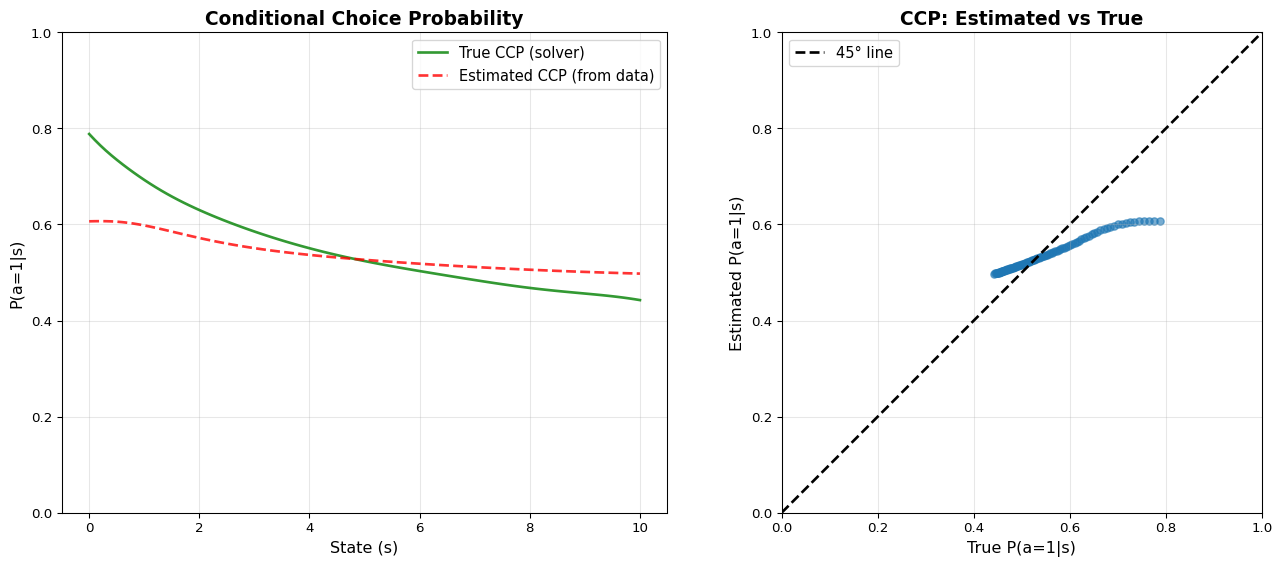
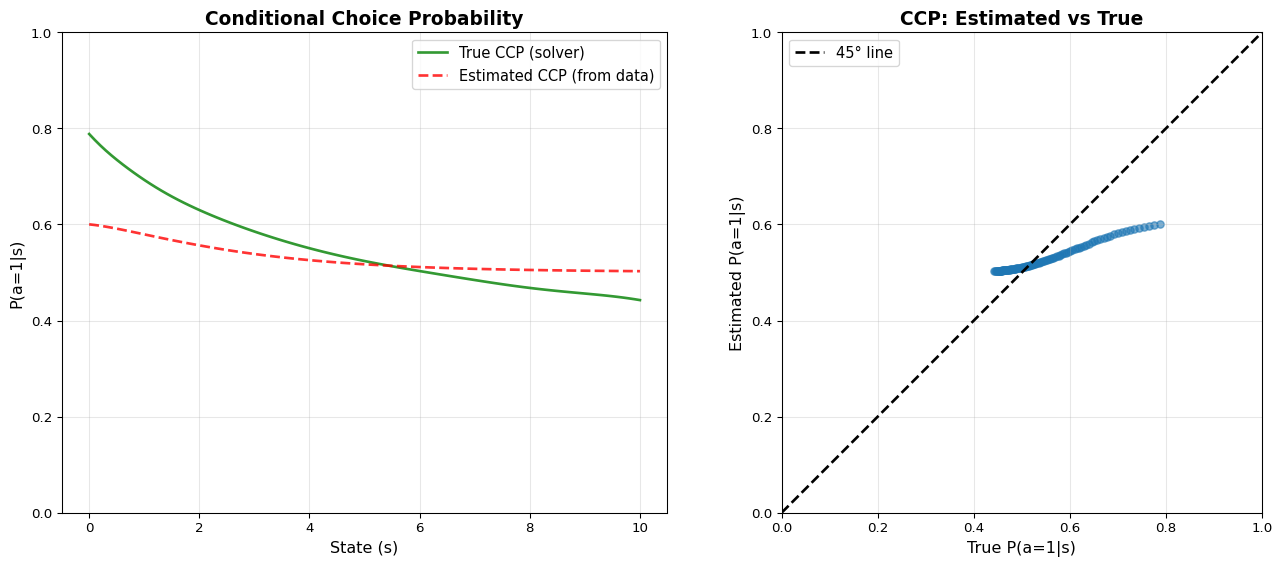
Use shallower CCP network architecture for better generalization
Change hidden_sizes from [32, 32] to [32] to reduce network depth from 4 layers to 3 layers.

Simpler network architecture should:
- Reduce overfitting on limited training data
- Generalize better to state regions with sparse observations
- Address CCP estimation bias from limited support in training data

🤖 Generated with [Claude Code](https://claude.com/claude-code)

diff --git a/scripts/estimate_mdp/estimate_mdp.html b/scripts/estimate_mdp/estimate_mdp.html
@@ -183,7 +183,7 @@ window.Quarto = {
 
 <section id="load-configuration-and-simulation-results" class="level2">
 <h2 class="anchored" data-anchor-id="load-configuration-and-simulation-results">Load Configuration and Simulation Results</h2>
-<div id="d31d6f7f" class="cell" data-execution_count="1">
+<div id="f920f5ce" class="cell" data-execution_count="1">
 <div class="sourceCode cell-code" id="cb1"><pre class="sourceCode python code-with-copy"><code class="sourceCode python"><span id="cb1-1"><a href="#cb1-1" aria-hidden="true" tabindex="-1"></a><span class="im">import</span> sys</span>
 <span id="cb1-2"><a href="#cb1-2" aria-hidden="true" tabindex="-1"></a>sys.path.insert(<span class="dv">0</span>, <span class="st">'..'</span>)</span>
 <span id="cb1-3"><a href="#cb1-3" aria-hidden="true" tabindex="-1"></a>sys.path.insert(<span class="dv">0</span>, <span class="st">'../../src'</span>)</span>
@@ -517,7 +517,7 @@ Algorithm: Two-Step Estimation of MDP Parameters
 <section id="diagnostic-compare-estimated-ccp-with-true-ccp" class="level2">
 <h2 class="anchored" data-anchor-id="diagnostic-compare-estimated-ccp-with-true-ccp">Diagnostic: Compare Estimated CCP with True CCP</h2>
 <p>Before running the full estimation, we diagnose the quality of CCP estimation by comparing the estimated CCP (from observed choices) with the true CCP (from the solver’s value functions).</p>
-<div id="19284124" class="cell" data-execution_count="2">
+<div id="80ab6c29" class="cell" data-execution_count="2">
 <div class="sourceCode cell-code" id="cb3"><pre class="sourceCode python code-with-copy"><code class="sourceCode python"><span id="cb3-1"><a href="#cb3-1" aria-hidden="true" tabindex="-1"></a><span class="co"># Load solver configuration</span></span>
 <span id="cb3-2"><a href="#cb3-2" aria-hidden="true" tabindex="-1"></a>solver_dir <span class="op">=</span> Path(<span class="st">'../../output/solve_mdp'</span>)</span>
 <span id="cb3-3"><a href="#cb3-3" aria-hidden="true" tabindex="-1"></a><span class="cf">with</span> <span class="bu">open</span>(solver_dir <span class="op">/</span> <span class="st">'config.json'</span>, <span class="st">'r'</span>, encoding<span class="op">=</span><span class="st">'utf-8'</span>) <span class="im">as</span> f:</span>
@@ -627,9 +627,9 @@ Loading true value functions from solver...
 Comparing: Estimated CCP (from data) vs. True CCP (from solver)
 
 P(a=1|s) errors:
-  Mean absolute error: 0.044347
-  Max absolute error:  0.181708
-  Root mean squared error: 0.058151</code></pre>
+  Mean absolute error: 0.050150
+  Max absolute error:  0.188001
+  Root mean squared error: 0.065476</code></pre>
 </div>
 <div class="cell-output cell-output-display">
 <div>
@@ -648,7 +648,7 @@ If CCP errors are SMALL: CCP estimation is good; beta estimation issues are isol
 </section>
 <section id="run-estimation" class="level2">
 <h2 class="anchored" data-anchor-id="run-estimation">Run Estimation</h2>
-<div id="40a8224c" class="cell" data-execution_count="3">
+<div id="68ab5018" class="cell" data-execution_count="3">
 <div class="sourceCode cell-code" id="cb6"><pre class="sourceCode python code-with-copy"><code class="sourceCode python"><span id="cb6-1"><a href="#cb6-1" aria-hidden="true" tabindex="-1"></a><span class="co"># Load solver configuration from solver output (for estimation hyperparameters)</span></span>
 <span id="cb6-2"><a href="#cb6-2" aria-hidden="true" tabindex="-1"></a>solver_dir <span class="op">=</span> Path(<span class="st">'../../output/solve_mdp'</span>)</span>
 <span id="cb6-3"><a href="#cb6-3" aria-hidden="true" tabindex="-1"></a><span class="cf">with</span> <span class="bu">open</span>(solver_dir <span class="op">/</span> <span class="st">'config.json'</span>, <span class="st">'r'</span>, encoding<span class="op">=</span><span class="st">'utf-8'</span>) <span class="im">as</span> f:</span>
@@ -726,7 +726,7 @@ If CCP errors are SMALL: CCP estimation is good; beta estimation issues are isol
 </section>
 <section id="save-estimation-results" class="level2">
 <h2 class="anchored" data-anchor-id="save-estimation-results">Save Estimation Results</h2>
-<div id="6aac0c71" class="cell" data-execution_count="4">
+<div id="80dc7aad" class="cell" data-execution_count="4">
 <div class="sourceCode cell-code" id="cb7"><pre class="sourceCode python code-with-copy"><code class="sourceCode python"><span id="cb7-1"><a href="#cb7-1" aria-hidden="true" tabindex="-1"></a><span class="co"># Save estimation results</span></span>
 <span id="cb7-2"><a href="#cb7-2" aria-hidden="true" tabindex="-1"></a>output_dir <span class="op">=</span> Path(<span class="st">'../../output/estimate_mdp'</span>)</span>
 <span id="cb7-3"><a href="#cb7-3" aria-hidden="true" tabindex="-1"></a>output_dir.mkdir(parents<span class="op">=</span><span class="va">True</span>, exist_ok<span class="op">=</span><span class="va">True</span>)</span>
@@ -753,7 +753,7 @@ If CCP errors are SMALL: CCP estimation is good; beta estimation issues are isol
 </section>
 <section id="compare-estimated-and-true-parameters" class="level2">
 <h2 class="anchored" data-anchor-id="compare-estimated-and-true-parameters">Compare Estimated and True Parameters</h2>
-<div id="586fa3f5" class="cell" data-execution_count="5">
+<div id="9845e2a9" class="cell" data-execution_count="5">
 <div class="sourceCode cell-code" id="cb8"><pre class="sourceCode python code-with-copy"><code class="sourceCode python"><span id="cb8-1"><a href="#cb8-1" aria-hidden="true" tabindex="-1"></a><span class="co"># Create comparison table</span></span>
 <span id="cb8-2"><a href="#cb8-2" aria-hidden="true" tabindex="-1"></a>comparison_data <span class="op">=</span> {</span>
 <span id="cb8-3"><a href="#cb8-3" aria-hidden="true" tabindex="-1"></a>    <span class="st">'Parameter'</span>: [<span class="st">'gamma'</span>, <span class="st">'beta'</span>],</span>
@@ -774,7 +774,7 @@ If CCP errors are SMALL: CCP estimation is good; beta estimation issues are isol
 <section id="compare-equilibrium-objects" class="level2">
 <h2 class="anchored" data-anchor-id="compare-equilibrium-objects">Compare Equilibrium Objects</h2>
 <p>Now we compare the estimated and true equilibrium objects: conditional choice probabilities (CCP) and value functions. We load the true value functions from the solver results and compute the implied equilibrium objects under both true and estimated parameters.</p>
-<div id="19b0195c" class="cell" data-execution_count="6">
+<div id="39230dbe" class="cell" data-execution_count="6">
 <div class="sourceCode cell-code" id="cb9"><pre class="sourceCode python code-with-copy"><code class="sourceCode python"><span id="cb9-1"><a href="#cb9-1" aria-hidden="true" tabindex="-1"></a><span class="co"># Load true value functions from solver</span></span>
 <span id="cb9-2"><a href="#cb9-2" aria-hidden="true" tabindex="-1"></a>solver_dir <span class="op">=</span> Path(<span class="st">'../../output/solve_mdp'</span>)</span>
 <span id="cb9-3"><a href="#cb9-3" aria-hidden="true" tabindex="-1"></a><span class="cf">if</span> <span class="kw">not</span> solver_dir.exists():</span>
@@ -794,7 +794,7 @@ If CCP errors are SMALL: CCP estimation is good; beta estimation issues are isol
 <span id="cb9-17"><a href="#cb9-17" aria-hidden="true" tabindex="-1"></a></span>
 <span id="cb9-18"><a href="#cb9-18" aria-hidden="true" tabindex="-1"></a><span class="bu">print</span>(<span class="st">"Loaded true value functions from solver"</span>)</span></code><button title="Copy to Clipboard" class="code-copy-button"><i class="bi"></i></button></pre></div>
 </div>
-<div id="dc60cd7b" class="cell" data-execution_count="7">
+<div id="b95a36e6" class="cell" data-execution_count="7">
 <div class="sourceCode cell-code" id="cb10"><pre class="sourceCode python code-with-copy"><code class="sourceCode python"><span id="cb10-1"><a href="#cb10-1" aria-hidden="true" tabindex="-1"></a><span class="im">from</span> mdp_solver <span class="im">import</span> GenerateStateGrid, SolveValueIteration</span>
 <span id="cb10-2"><a href="#cb10-2" aria-hidden="true" tabindex="-1"></a></span>
 <span id="cb10-3"><a href="#cb10-3" aria-hidden="true" tabindex="-1"></a><span class="co"># Solve for estimated value functions using estimated parameters</span></span>
@@ -817,7 +817,7 @@ If CCP errors are SMALL: CCP estimation is good; beta estimation issues are isol
 <span id="cb10-20"><a href="#cb10-20" aria-hidden="true" tabindex="-1"></a></span>
 <span id="cb10-21"><a href="#cb10-21" aria-hidden="true" tabindex="-1"></a><span class="bu">print</span>(<span class="st">"Solved value functions under estimated parameters"</span>)</span></code><button title="Copy to Clipboard" class="code-copy-button"><i class="bi"></i></button></pre></div>
 </div>
-<div id="5e14666a" class="cell" data-execution_count="8">
+<div id="db96df35" class="cell" data-execution_count="8">
 <div class="sourceCode cell-code" id="cb11"><pre class="sourceCode python code-with-copy"><code class="sourceCode python"><span id="cb11-1"><a href="#cb11-1" aria-hidden="true" tabindex="-1"></a><span class="co"># Generate evaluation grid</span></span>
 <span id="cb11-2"><a href="#cb11-2" aria-hidden="true" tabindex="-1"></a>S_eval <span class="op">=</span> GenerateStateGrid(N<span class="op">=</span>N, state_range<span class="op">=</span>state_range)</span>
 <span id="cb11-3"><a href="#cb11-3" aria-hidden="true" tabindex="-1"></a></span>
@@ -873,7 +873,7 @@ If CCP errors are SMALL: CCP estimation is good; beta estimation issues are isol
 <span id="cb11-53"><a href="#cb11-53" aria-hidden="true" tabindex="-1"></a></span>
 <span id="cb11-54"><a href="#cb11-54" aria-hidden="true" tabindex="-1"></a><span class="bu">print</span>(<span class="ss">f"</span><span class="ch">\n</span><span class="ss">Computed equilibrium objects on grid of </span><span class="sc">{</span>N<span class="sc">}</span><span class="ss"> points"</span>)</span></code><button title="Copy to Clipboard" class="code-copy-button"><i class="bi"></i></button></pre></div>
 </div>
-<div id="ecdb7174" class="cell" data-execution_count="9">
+<div id="1cb5630d" class="cell" data-execution_count="9">
 <div class="sourceCode cell-code" id="cb12"><pre class="sourceCode python code-with-copy"><code class="sourceCode python"><span id="cb12-1"><a href="#cb12-1" aria-hidden="true" tabindex="-1"></a><span class="co"># Create comparison plots</span></span>
 <span id="cb12-2"><a href="#cb12-2" aria-hidden="true" tabindex="-1"></a>fig, axes <span class="op">=</span> plt.subplots(<span class="dv">2</span>, <span class="dv">2</span>, figsize<span class="op">=</span>(<span class="dv">14</span>, <span class="dv">12</span>))</span>
 <span id="cb12-3"><a href="#cb12-3" aria-hidden="true" tabindex="-1"></a></span>

diff --git a/scripts/config_mdp/mdp_config.py b/scripts/config_mdp/mdp_config.py
@@ -27,7 +27,7 @@ _MODEL_CONFIG: Dict[str, Any] = {
 # Solution method parameters (how to solve the model)
 _SOLVER_CONFIG: Dict[str, Any] = {
     "hyperparameters": {
-        "hidden_sizes": [32, 32],
+        "hidden_sizes": [32],
     },
     "N": 100,           # Number of grid points
     "state_range": (0.0, 10.0),  # State space range
